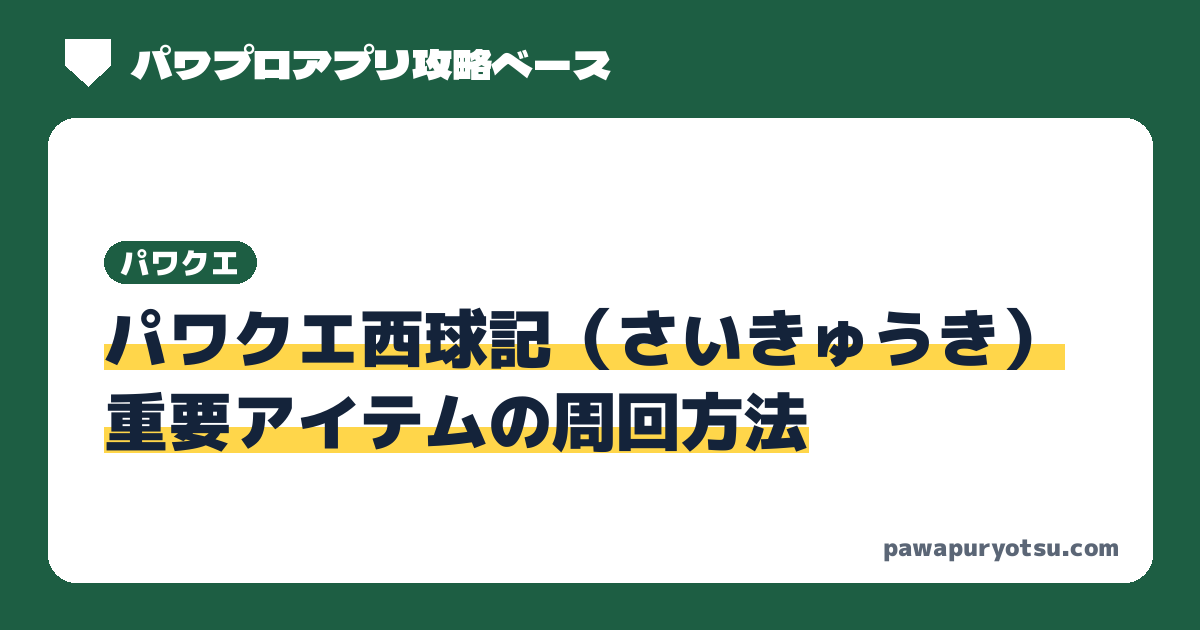
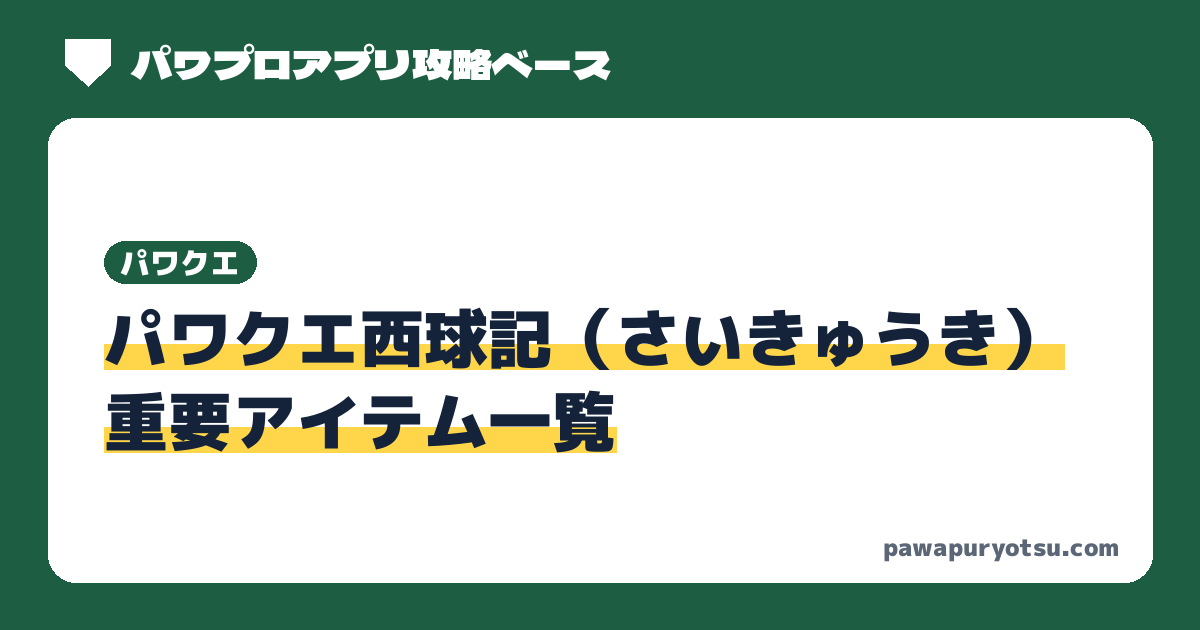
重要アイテム周回方法を「重要アイテム一覧」に名前変更（URLは drop/ のまま）
Claude-Session: https://claude.ai/code/session_019YJeT1QLw94f9KNRLB6odh

Changed region(s): [[0.4008, 0.6032, 0.6783, 0.7238]]

diff --git a/docs/pawaque/saikyuki/drop/index.html b/docs/pawaque/saikyuki/drop/index.html
@@ -4,13 +4,13 @@
 <meta charset="utf-8">
 <meta name="viewport" content="width=device-width,initial-scale=1,viewport-fit=cover">
 <meta name="color-scheme" content="light">
-<title>パワクエ西球記（さいきゅうき）重要アイテムの周回方法｜パワプロアプリ攻略ベース</title>
-<meta name="description" content="パワプロアプリのパワクエ「西球記（さいきゅうき）」で、重要アイテムを集めるための周回方法をまとめます。">
+<title>パワクエ西球記（さいきゅうき）重要アイテム一覧｜パワプロアプリ攻略ベース</title>
+<meta name="description" content="パワプロアプリのパワクエ「西球記（さいきゅうき）」で重要となるアイテムの一覧です。">
 <link rel="canonical" href="https://pawapuryotsu.com/pawaque/saikyuki/drop/">
 <meta property="og:type" content="website">
 <meta property="og:site_name" content="パワプロアプリ攻略ベース">
-<meta property="og:title" content="パワクエ西球記（さいきゅうき）重要アイテムの周回方法｜パワプロアプリ攻略ベース">
-<meta property="og:description" content="パワプロアプリのパワクエ「西球記（さいきゅうき）」で、重要アイテムを集めるための周回方法をまとめます。">
+<meta property="og:title" content="パワクエ西球記（さいきゅうき）重要アイテム一覧｜パワプロアプリ攻略ベース">
+<meta property="og:description" content="パワプロアプリのパワクエ「西球記（さいきゅうき）」で重要となるアイテムの一覧です。">
 <meta property="og:url" content="https://pawapuryotsu.com/pawaque/saikyuki/drop/">
 <meta property="og:image" content="https://pawapuryotsu.com/img/og/pawaque_saikyuki_drop.png">
 <meta property="og:image:width" content="1200">
@@ -29,7 +29,7 @@
 <script async src="https://pagead2.googlesyndication.com/pagead/js/adsbygoogle.js?client=ca-pub-8546020269968696" crossorigin="anonymous"></script>
 <script async src="https://www.googletagmanager.com/gtag/js?id=G-F98XGNW3LS"></script>
 <script>window.dataLayer=window.dataLayer||[];function gtag(){dataLayer.push(arguments)}gtag('js',new Date());gtag('config','G-F98XGNW3LS');</script><meta name="google-site-verification" content="ZgxID967oum-2Mm1F5BCX9gvQE_vNl2ZDbXXWfyYP10" />
-<script type="application/ld+json">{"@context": "https://schema.org", "@type": "BreadcrumbList", "itemListElement": [{"@type": "ListItem", "position": 1, "name": "トップ", "item": "https://pawapuryotsu.com/"}, {"@type": "ListItem", "position": 2, "name": "パワクエ", "item": "https://pawapuryotsu.com/pawaque/"}, {"@type": "ListItem", "position": 3, "name": "西球記", "item": "https://pawapuryotsu.com/pawaque/saikyuki/"}, {"@type": "ListItem", "position": 4, "name": "重要アイテム周回方法", "item": "https://pawapuryotsu.com/pawaque/saikyuki/drop/"}]}</script>
+<script type="application/ld+json">{"@context": "https://schema.org", "@type": "BreadcrumbList", "itemListElement": [{"@type": "ListItem", "position": 1, "name": "トップ", "item": "https://pawapuryotsu.com/"}, {"@type": "ListItem", "position": 2, "name": "パワクエ", "item": "https://pawapuryotsu.com/pawaque/"}, {"@type": "ListItem", "position": 3, "name": "西球記", "item": "https://pawapuryotsu.com/pawaque/saikyuki/"}, {"@type": "ListItem", "position": 4, "name": "重要アイテム一覧", "item": "https://pawapuryotsu.com/pawaque/saikyuki/drop/"}]}</script>
 </head>
 <body data-root="../../../">
 <svg width="0" height="0" style="position:absolute" aria-hidden="true">
@@ -56,7 +56,7 @@
 </div></header>
 
 <main><div class="wrap" id="page">
-<nav class="crumbs" aria-label="パンくずリスト"><ol><li><a href="../../../">トップ</a></li><li><a href="../../../pawaque/">パワクエ</a></li><li><a href="../../../pawaque/saikyuki/">西球記</a></li><li aria-current="page">重要アイテム周回方法</li></ol></nav>
+<nav class="crumbs" aria-label="パンくずリスト"><ol><li><a href="../../../">トップ</a></li><li><a href="../../../pawaque/">パワクエ</a></li><li><a href="../../../pawaque/saikyuki/">西球記</a></li><li aria-current="page">重要アイテム一覧</li></ol></nav>
 <!-- 2026-11-17 管理人：袋ノ書・交渉の指輪の2つで公開。原稿が来たらアイテムを追加（随時更新）。 -->
 <div class="dr-update"><p>※随時更新していきます</p>
 <p class="dr-log-h">11/19 追記した内容</p>
@@ -68,7 +68,7 @@
   <li>幸運の金丹：ドロップ場所に⑲道中3を追加</li>
   <li>金ノ書：アイテムを追加</li>
 </ul></div>
-<section class="phead"><p class="eyebrow">パワクエ 西球記</p><h1><span class="mk"><i>重要アイテム周回方法</i></span></h1><p>パワクエ<span class="cp-nw">「西球記（さいきゅうき）」</span>で、重要アイテムを集める周回方法を<span class="cp-nw">まとめました。</span></p></section>
+<section class="phead"><p class="eyebrow">パワクエ 西球記</p><h1><span class="mk"><i>重要アイテム一覧</i></span></h1><p>パワクエ<span class="cp-nw">「西球記（さいきゅうき）」</span>で重要となるアイテムの<span class="cp-nw">一覧です。</span></p></section>
 <div class="prose">
   <h2 id="skill">アイテムに付くスキルについて</h2>
   <p><span class="em-blue">アイテムに付くスキルは、高難度のクエストの方がレアなスキル・追加スキルが付く確率が高く、アイテムのランクも高くなります。</span></p>
@@ -164,7 +164,7 @@
   <div class="sk-grid">
     <a class="sk-c" href="../../../pawaque/saikyuki/feature/"><span class="sk-th sk-img"><img src="../../../img/pawaque/saikyuki_logo.png" alt="西球記のロゴ" width="235" height="130"></span><span class="sk-l">西球記の<span class="cp-nw">固有ギミック</span></span><span class="sk-s">仙術・神前試合マス・<wbr>祈願エンディングマス</span></a>
     <a class="sk-c" href="../../../pawaque/saikyuki/quest/"><span class="sk-th sk-img"><img src="../../../img/pawaque/saikyuki_link_quest.jpg" alt="クエスト一覧の画面" width="374" height="148"></span><span class="sk-l">クエスト一覧</span><span class="sk-s"><span class="cp-nw">①〜⑳</span>・<span class="cp-nw">むずクエ</span>・<span class="cp-nw">むちゃクエ</span>の<wbr>ドロップ・管理人メモ</span></a>
-    <span class="sk-c sk-cur" aria-current="page"><span class="sk-th sk-img"><img src="../../../img/pawaque/saikyuki_link_drop.jpg" alt="交渉の指輪" width="311" height="121"></span><span class="sk-l">重要アイテム<span class="cp-nw">周回方法</span></span><span class="sk-s"></span><span class="sk-now">表示中のページ</span></span>
+    <span class="sk-c sk-cur" aria-current="page"><span class="sk-th sk-img"><img src="../../../img/pawaque/saikyuki_link_drop.jpg" alt="交渉の指輪" width="311" height="121"></span><span class="sk-l">重要アイテム一覧</span><span class="sk-s"></span><span class="sk-now">表示中のページ</span></span>
     <a class="sk-c" href="../../../pawaque/saikyuki/muzu/"><span class="sk-th sk-img"><img src="../../../img/pawaque/saikyuki_link_muzu.jpg" alt="むずクエ エリア3のマップ" width="360" height="150"></span><span class="sk-l">むずクエ<span class="cp-nw">攻略＆周回</span></span><span class="sk-s">エリアごとの<wbr><span class="cp-nw">ルートと仙術</span></span></a>
     <a class="sk-c" href="../../../pawaque/saikyuki/mucha/"><span class="sk-th sk-img"><img src="../../../img/pawaque/saikyuki_link_mucha.jpg" alt="むちゃクエ エリア5のマップ" width="360" height="150"></span><span class="sk-l">むちゃクエ<span class="cp-nw">攻略＆周回</span></span><span class="sk-s">エリアごとの<wbr><span class="cp-nw">ルートと仙術</span></span></a>
     <a class="sk-c" href="../../../pawaque/saikyuki/shinzen/"><span class="sk-th sk-img"><img src="../../../img/pawaque/saikyuki_link_shinzen.jpg" alt="神前試合の画面" width="660" height="334"></span><span class="sk-l">神前試合<span class="cp-nw">まとめ</span></span><span class="sk-s">38校の進化対象・<wbr>スカウト候補</span></a>

diff --git a/src/pages/pawaque-saikyuki-drop.html b/src/pages/pawaque-saikyuki-drop.html
@@ -1,11 +1,11 @@
 <!--
-title: パワクエ西球記（さいきゅうき）重要アイテムの周回方法｜パワプロアプリ攻略ベース
-description: パワプロアプリのパワクエ「西球記（さいきゅうき）」で、重要アイテムを集めるための周回方法をまとめます。
+title: パワクエ西球記（さいきゅうき）重要アイテム一覧｜パワプロアプリ攻略ベース
+description: パワプロアプリのパワクエ「西球記（さいきゅうき）」で重要となるアイテムの一覧です。
 path: pawaque/saikyuki/drop/
 nav: pawaque
-crumb: 重要アイテム周回方法
-card_title: 西球記の重要アイテム周回方法
-card: 西球記で重要アイテムを集める周回方法を<span class="cp-nw">まとめました。</span>
+crumb: 重要アイテム一覧
+card_title: 西球記の重要アイテム一覧
+card: 西球記で重要となるアイテムの<span class="cp-nw">一覧です。</span>
 pq_order: 8
 -->
 <!-- 2026-11-17 管理人：袋ノ書・交渉の指輪の2つで公開。原稿が来たらアイテムを追加（随時更新）。 -->
@@ -19,7 +19,7 @@ pq_order: 8
   <li>幸運の金丹：ドロップ場所に⑲道中3を追加</li>
   <li>金ノ書：アイテムを追加</li>
 </ul></div>
-<section class="phead"><p class="eyebrow">パワクエ 西球記</p><h1><span class="mk"><i>重要アイテム周回方法</i></span></h1><p>パワクエ<span class="cp-nw">「西球記（さいきゅうき）」</span>で、重要アイテムを集める周回方法を<span class="cp-nw">まとめました。</span></p></section>
+<section class="phead"><p class="eyebrow">パワクエ 西球記</p><h1><span class="mk"><i>重要アイテム一覧</i></span></h1><p>パワクエ<span class="cp-nw">「西球記（さいきゅうき）」</span>で重要となるアイテムの<span class="cp-nw">一覧です。</span></p></section>
 <div class="prose">
   <h2 id="skill">アイテムに付くスキルについて</h2>
   <p><span class="em-blue">アイテムに付くスキルは、高難度のクエストの方がレアなスキル・追加スキルが付く確率が高く、アイテムのランクも高くなります。</span></p>
@@ -115,7 +115,7 @@ pq_order: 8
   <div class="sk-grid">
     <a class="sk-c" href="{{root}}pawaque/saikyuki/feature/"><span class="sk-th sk-img"><img src="{{root}}img/pawaque/saikyuki_logo.png" alt="西球記のロゴ" width="235" height="130"></span><span class="sk-l">西球記の<span class="cp-nw">固有ギミック</span></span><span class="sk-s">仙術・神前試合マス・<wbr>祈願エンディングマス</span></a>
     <a class="sk-c" href="{{root}}pawaque/saikyuki/quest/"><span class="sk-th sk-img"><img src="{{root}}img/pawaque/saikyuki_link_quest.jpg" alt="クエスト一覧の画面" width="374" height="148"></span><span class="sk-l">クエスト一覧</span><span class="sk-s"><span class="cp-nw">①〜⑳</span>・<span class="cp-nw">むずクエ</span>・<span class="cp-nw">むちゃクエ</span>の<wbr>ドロップ・管理人メモ</span></a>
-    <span class="sk-c sk-cur" aria-current="page"><span class="sk-th sk-img"><img src="{{root}}img/pawaque/saikyuki_link_drop.jpg" alt="交渉の指輪" width="311" height="121"></span><span class="sk-l">重要アイテム<span class="cp-nw">周回方法</span></span><span class="sk-s"></span><span class="sk-now">表示中のページ</span></span>
+    <span class="sk-c sk-cur" aria-current="page"><span class="sk-th sk-img"><img src="{{root}}img/pawaque/saikyuki_link_drop.jpg" alt="交渉の指輪" width="311" height="121"></span><span class="sk-l">重要アイテム一覧</span><span class="sk-s"></span><span class="sk-now">表示中のページ</span></span>
     <a class="sk-c" href="{{root}}pawaque/saikyuki/muzu/"><span class="sk-th sk-img"><img src="{{root}}img/pawaque/saikyuki_link_muzu.jpg" alt="むずクエ エリア3のマップ" width="360" height="150"></span><span class="sk-l">むずクエ<span class="cp-nw">攻略＆周回</span></span><span class="sk-s">エリアごとの<wbr><span class="cp-nw">ルートと仙術</span></span></a>
     <a class="sk-c" href="{{root}}pawaque/saikyuki/mucha/"><span class="sk-th sk-img"><img src="{{root}}img/pawaque/saikyuki_link_mucha.jpg" alt="むちゃクエ エリア5のマップ" width="360" height="150"></span><span class="sk-l">むちゃクエ<span class="cp-nw">攻略＆周回</span></span><span class="sk-s">エリアごとの<wbr><span class="cp-nw">ルートと仙術</span></span></a>
     <a class="sk-c" href="{{root}}pawaque/saikyuki/shinzen/"><span class="sk-th sk-img"><img src="{{root}}img/pawaque/saikyuki_link_shinzen.jpg" alt="神前試合の画面" width="660" height="334"></span><span class="sk-l">神前試合<span class="cp-nw">まとめ</span></span><span class="sk-s">38校の進化対象・<wbr>スカウト候補</span></a>

diff --git a/docs/pawaque/saikyuki/muzu/index.html b/docs/pawaque/saikyuki/muzu/index.html
@@ -106,7 +106,7 @@
   <div class="sk-grid">
     <a class="sk-c" href="../../../pawaque/saikyuki/feature/"><span class="sk-th sk-img"><img src="../../../img/pawaque/saikyuki_logo.png" alt="西球記のロゴ" width="235" height="130"></span><span class="sk-l">西球記の<span class="cp-nw">固有ギミック</span></span><span class="sk-s">仙術・神前試合マス・<wbr>祈願エンディングマス</span></a>
     <a class="sk-c" href="../../../pawaque/saikyuki/quest/"><span class="sk-th sk-img"><img src="../../../img/pawaque/saikyuki_link_quest.jpg" alt="クエスト一覧の画面" width="374" height="148"></span><span class="sk-l">クエスト一覧</span><span class="sk-s"><span class="cp-nw">①〜⑳</span>・<span class="cp-nw">むずクエ</span>・<span class="cp-nw">むちゃクエ</span>の<wbr>ドロップ・管理人メモ</span></a>
-    <a class="sk-c" href="../../../pawaque/saikyuki/drop/"><span class="sk-th sk-img"><img src="../../../img/pawaque/saikyuki_link_drop.jpg" alt="交渉の指輪" width="311" height="121"></span><span class="sk-l">重要アイテム<span class="cp-nw">周回方法</span></span><span class="sk-s"></span></a>
+    <a class="sk-c" href="../../../pawaque/saikyuki/drop/"><span class="sk-th sk-img"><img src="../../../img/pawaque/saikyuki_link_drop.jpg" alt="交渉の指輪" width="311" height="121"></span><span class="sk-l">重要アイテム一覧</span><span class="sk-s"></span></a>
     <span class="sk-c sk-cur" aria-current="page"><span class="sk-th sk-img"><img src="../../../img/pawaque/saikyuki_link_muzu.jpg" alt="むずクエ エリア3のマップ" width="360" height="150"></span><span class="sk-l">むずクエ<span class="cp-nw">攻略＆周回</span></span><span class="sk-s">エリアごとの<wbr><span class="cp-nw">ルートと仙術</span></span><span class="sk-now">表示中のページ</span></span>
     <a class="sk-c" href="../../../pawaque/saikyuki/mucha/"><span class="sk-th sk-img"><img src="../../../img/pawaque/saikyuki_link_mucha.jpg" alt="むちゃクエ エリア5のマップ" width="360" height="150"></span><span class="sk-l">むちゃクエ<span class="cp-nw">攻略＆周回</span></span><span class="sk-s">エリアごとの<wbr><span class="cp-nw">ルートと仙術</span></span></a>
     <a class="sk-c" href="../../../pawaque/saikyuki/shinzen/"><span class="sk-th sk-img"><img src="../../../img/pawaque/saikyuki_link_shinzen.jpg" alt="神前試合の画面" width="660" height="334"></span><span class="sk-l">神前試合<span class="cp-nw">まとめ</span></span><span class="sk-s">38校の進化対象・<wbr>スカウト候補</span></a>

diff --git a/docs/pawaque/saikyuki/mucha/index.html b/docs/pawaque/saikyuki/mucha/index.html
@@ -112,7 +112,7 @@
   <div class="sk-grid">
     <a class="sk-c" href="../../../pawaque/saikyuki/feature/"><span class="sk-th sk-img"><img src="../../../img/pawaque/saikyuki_logo.png" alt="西球記のロゴ" width="235" height="130"></span><span class="sk-l">西球記の<span class="cp-nw">固有ギミック</span></span><span class="sk-s">仙術・神前試合マス・<wbr>祈願エンディングマス</span></a>
     <a class="sk-c" href="../../../pawaque/saikyuki/quest/"><span class="sk-th sk-img"><img src="../../../img/pawaque/saikyuki_link_quest.jpg" alt="クエスト一覧の画面" width="374" height="148"></span><span class="sk-l">クエスト一覧</span><span class="sk-s"><span class="cp-nw">①〜⑳</span>・<span class="cp-nw">むずクエ</span>・<span class="cp-nw">むちゃクエ</span>の<wbr>ドロップ・管理人メモ</span></a>
-    <a class="sk-c" href="../../../pawaque/saikyuki/drop/"><span class="sk-th sk-img"><img src="../../../img/pawaque/saikyuki_link_drop.jpg" alt="交渉の指輪" width="311" height="121"></span><span class="sk-l">重要アイテム<span class="cp-nw">周回方法</span></span><span class="sk-s"></span></a>
+    <a class="sk-c" href="../../../pawaque/saikyuki/drop/"><span class="sk-th sk-img"><img src="../../../img/pawaque/saikyuki_link_drop.jpg" alt="交渉の指輪" width="311" height="121"></span><span class="sk-l">重要アイテム一覧</span><span class="sk-s"></span></a>
     <a class="sk-c" href="../../../pawaque/saikyuki/muzu/"><span class="sk-th sk-img"><img src="../../../img/pawaque/saikyuki_link_muzu.jpg" alt="むずクエ エリア3のマップ" width="360" height="150"></span><span class="sk-l">むずクエ<span class="cp-nw">攻略＆周回</span></span><span class="sk-s">エリアごとの<wbr><span class="cp-nw">ルートと仙術</span></span></a>
     <span class="sk-c sk-cur" aria-current="page"><span class="sk-th sk-img"><img src="../../../img/pawaque/saikyuki_link_mucha.jpg" alt="むちゃクエ エリア5のマップ" width="360" height="150"></span><span class="sk-l">むちゃクエ<span class="cp-nw">攻略＆周回</span></span><span class="sk-s">エリアごとの<wbr><span class="cp-nw">ルートと仙術</span></span><span class="sk-now">表示中のページ</span></span>
     <a class="sk-c" href="../../../pawaque/saikyuki/shinzen/"><span class="sk-th sk-img"><img src="../../../img/pawaque/saikyuki_link_shinzen.jpg" alt="神前試合の画面" width="660" height="334"></span><span class="sk-l">神前試合<span class="cp-nw">まとめ</span></span><span class="sk-s">38校の進化対象・<wbr>スカウト候補</span></a>

diff --git a/docs/pawaque/saikyuki/quest/index.html b/docs/pawaque/saikyuki/quest/index.html
@@ -164,7 +164,7 @@
   <div class="sk-grid">
     <a class="sk-c" href="../../../pawaque/saikyuki/feature/"><span class="sk-th sk-img"><img src="../../../img/pawaque/saikyuki_logo.png" alt="西球記のロゴ" width="235" height="130"></span><span class="sk-l">西球記の<span class="cp-nw">固有ギミック</span></span><span class="sk-s">仙術・神前試合マス・<wbr>祈願エンディングマス</span></a>
     <span class="sk-c sk-cur" aria-current="page"><span class="sk-th sk-img"><img src="../../../img/pawaque/saikyuki_link_quest.jpg" alt="クエスト一覧の画面" width="374" height="148"></span><span class="sk-l">クエスト一覧</span><span class="sk-s"><span class="cp-nw">①〜⑳</span>・<span class="cp-nw">むずクエ</span>・<span class="cp-nw">むちゃクエ</span>の<wbr>ドロップ・管理人メモ</span><span class="sk-now">表示中のページ</span></span>
-    <a class="sk-c" href="../../../pawaque/saikyuki/drop/"><span class="sk-th sk-img"><img src="../../../img/pawaque/saikyuki_link_drop.jpg" alt="交渉の指輪" width="311" height="121"></span><span class="sk-l">重要アイテム<span class="cp-nw">周回方法</span></span><span class="sk-s"></span></a>
+    <a class="sk-c" href="../../../pawaque/saikyuki/drop/"><span class="sk-th sk-img"><img src="../../../img/pawaque/saikyuki_link_drop.jpg" alt="交渉の指輪" width="311" height="121"></span><span class="sk-l">重要アイテム一覧</span><span class="sk-s"></span></a>
     <a class="sk-c" href="../../../pawaque/saikyuki/muzu/"><span class="sk-th sk-img"><img src="../../../img/pawaque/saikyuki_link_muzu.jpg" alt="むずクエ エリア3のマップ" width="360" height="150"></span><span class="sk-l">むずクエ<span class="cp-nw">攻略＆周回</span></span><span class="sk-s">エリアごとの<wbr><span class="cp-nw">ルートと仙術</span></span></a>
     <a class="sk-c" href="../../../pawaque/saikyuki/mucha/"><span class="sk-th sk-img"><img src="../../../img/pawaque/saikyuki_link_mucha.jpg" alt="むちゃクエ エリア5のマップ" width="360" height="150"></span><span class="sk-l">むちゃクエ<span class="cp-nw">攻略＆周回</span></span><span class="sk-s">エリアごとの<wbr><span class="cp-nw">ルートと仙術</span></span></a>
     <a class="sk-c" href="../../../pawaque/saikyuki/shinzen/"><span class="sk-th sk-img"><img src="../../../img/pawaque/saikyuki_link_shinzen.jpg" alt="神前試合の画面" width="660" height="334"></span><span class="sk-l">神前試合<span class="cp-nw">まとめ</span></span><span class="sk-s">38校の進化対象・<wbr>スカウト候補</span></a>

diff --git a/src/pages/pawaque-saikyuki-quest.html b/src/pages/pawaque-saikyuki-quest.html
@@ -115,7 +115,7 @@ pq_order: 7
   <div class="sk-grid">
     <a class="sk-c" href="{{root}}pawaque/saikyuki/feature/"><span class="sk-th sk-img"><img src="{{root}}img/pawaque/saikyuki_logo.png" alt="西球記のロゴ" width="235" height="130"></span><span class="sk-l">西球記の<span class="cp-nw">固有ギミック</span></span><span class="sk-s">仙術・神前試合マス・<wbr>祈願エンディングマス</span></a>
     <span class="sk-c sk-cur" aria-current="page"><span class="sk-th sk-img"><img src="{{root}}img/pawaque/saikyuki_link_quest.jpg" alt="クエスト一覧の画面" width="374" height="148"></span><span class="sk-l">クエスト一覧</span><span class="sk-s"><span class="cp-nw">①〜⑳</span>・<span class="cp-nw">むずクエ</span>・<span class="cp-nw">むちゃクエ</span>の<wbr>ドロップ・管理人メモ</span><span class="sk-now">表示中のページ</span></span>
-    <a class="sk-c" href="{{root}}pawaque/saikyuki/drop/"><span class="sk-th sk-img"><img src="{{root}}img/pawaque/saikyuki_link_drop.jpg" alt="交渉の指輪" width="311" height="121"></span><span class="sk-l">重要アイテム<span class="cp-nw">周回方法</span></span><span class="sk-s"></span></a>
+    <a class="sk-c" href="{{root}}pawaque/saikyuki/drop/"><span class="sk-th sk-img"><img src="{{root}}img/pawaque/saikyuki_link_drop.jpg" alt="交渉の指輪" width="311" height="121"></span><span class="sk-l">重要アイテム一覧</span><span class="sk-s"></span></a>
     <a class="sk-c" href="{{root}}pawaque/saikyuki/muzu/"><span class="sk-th sk-img"><img src="{{root}}img/pawaque/saikyuki_link_muzu.jpg" alt="むずクエ エリア3のマップ" width="360" height="150"></span><span class="sk-l">むずクエ<span class="cp-nw">攻略＆周回</span></span><span class="sk-s">エリアごとの<wbr><span class="cp-nw">ルートと仙術</span></span></a>
     <a class="sk-c" href="{{root}}pawaque/saikyuki/mucha/"><span class="sk-th sk-img"><img src="{{root}}img/pawaque/saikyuki_link_mucha.jpg" alt="むちゃクエ エリア5のマップ" width="360" height="150"></span><span class="sk-l">むちゃクエ<span class="cp-nw">攻略＆周回</span></span><span class="sk-s">エリアごとの<wbr><span class="cp-nw">ルートと仙術</span></span></a>
     <a class="sk-c" href="{{root}}pawaque/saikyuki/shinzen/"><span class="sk-th sk-img"><img src="{{root}}img/pawaque/saikyuki_link_shinzen.jpg" alt="神前試合の画面" width="660" height="334"></span><span class="sk-l">神前試合<span class="cp-nw">まとめ</span></span><span class="sk-s">38校の進化対象・<wbr>スカウト候補</span></a>

diff --git a/docs/pawaque/saikyuki/feature/index.html b/docs/pawaque/saikyuki/feature/index.html
@@ -154,7 +154,7 @@
   <div class="sk-grid">
     <span class="sk-c sk-cur" aria-current="page"><span class="sk-th sk-img"><img src="../../../img/pawaque/saikyuki_logo.png" alt="西球記のロゴ" width="235" height="130"></span><span class="sk-l">西球記の<span class="cp-nw">固有ギミック</span></span><span class="sk-s">仙術・神前試合マス・<wbr>祈願エンディングマス</span><span class="sk-now">表示中のページ</span></span>
     <a class="sk-c" href="../../../pawaque/saikyuki/quest/"><span class="sk-th sk-img"><img src="../../../img/pawaque/saikyuki_link_quest.jpg" alt="クエスト一覧の画面" width="374" height="148"></span><span class="sk-l">クエスト一覧</span><span class="sk-s"><span class="cp-nw">①〜⑳</span>・<span class="cp-nw">むずクエ</span>・<span class="cp-nw">むちゃクエ</span>の<wbr>ドロップ・管理人メモ</span></a>
-    <a class="sk-c" href="../../../pawaque/saikyuki/drop/"><span class="sk-th sk-img"><img src="../../../img/pawaque/saikyuki_link_drop.jpg" alt="交渉の指輪" width="311" height="121"></span><span class="sk-l">重要アイテム<span class="cp-nw">周回方法</span></span><span class="sk-s"></span></a>
+    <a class="sk-c" href="../../../pawaque/saikyuki/drop/"><span class="sk-th sk-img"><img src="../../../img/pawaque/saikyuki_link_drop.jpg" alt="交渉の指輪" width="311" height="121"></span><span class="sk-l">重要アイテム一覧</span><span class="sk-s"></span></a>
     <a class="sk-c" href="../../../pawaque/saikyuki/muzu/"><span class="sk-th sk-img"><img src="../../../img/pawaque/saikyuki_link_muzu.jpg" alt="むずクエ エリア3のマップ" width="360" height="150"></span><span class="sk-l">むずクエ<span class="cp-nw">攻略＆周回</span></span><span class="sk-s">エリアごとの<wbr><span class="cp-nw">ルートと仙術</span></span></a>
     <a class="sk-c" href="../../../pawaque/saikyuki/mucha/"><span class="sk-th sk-img"><img src="../../../img/pawaque/saikyuki_link_mucha.jpg" alt="むちゃクエ エリア5のマップ" width="360" height="150"></span><span class="sk-l">むちゃクエ<span class="cp-nw">攻略＆周回</span></span><span class="sk-s">エリアごとの<wbr><span class="cp-nw">ルートと仙術</span></span></a>
     <a class="sk-c" href="../../../pawaque/saikyuki/shinzen/"><span class="sk-th sk-img"><img src="../../../img/pawaque/saikyuki_link_shinzen.jpg" alt="神前試合の画面" width="660" height="334"></span><span class="sk-l">神前試合<span class="cp-nw">まとめ</span></span><span class="sk-s">38校の進化対象・<wbr>スカウト候補</span></a>

diff --git a/docs/pawaque/saikyuki/shinzen/index.html b/docs/pawaque/saikyuki/shinzen/index.html
@@ -277,7 +277,7 @@
   <div class="sk-grid">
     <a class="sk-c" href="../../../pawaque/saikyuki/feature/"><span class="sk-th sk-img"><img src="../../../img/pawaque/saikyuki_logo.png" alt="西球記のロゴ" width="235" height="130"></span><span class="sk-l">西球記の<span class="cp-nw">固有ギミック</span></span><span class="sk-s">仙術・神前試合マス・<wbr>祈願エンディングマス</span></a>
     <a class="sk-c" href="../../../pawaque/saikyuki/quest/"><span class="sk-th sk-img"><img src="../../../img/pawaque/saikyuki_link_quest.jpg" alt="クエスト一覧の画面" width="374" height="148"></span><span class="sk-l">クエスト一覧</span><span class="sk-s"><span class="cp-nw">①〜⑳</span>・<span class="cp-nw">むずクエ</span>・<span class="cp-nw">むちゃクエ</span>の<wbr>ドロップ・管理人メモ</span></a>
-    <a class="sk-c" href="../../../pawaque/saikyuki/drop/"><span class="sk-th sk-img"><img src="../../../img/pawaque/saikyuki_link_drop.jpg" alt="交渉の指輪" width="311" height="121"></span><span class="sk-l">重要アイテム<span class="cp-nw">周回方法</span></span><span class="sk-s"></span></a>
+    <a class="sk-c" href="../../../pawaque/saikyuki/drop/"><span class="sk-th sk-img"><img src="../../../img/pawaque/saikyuki_link_drop.jpg" alt="交渉の指輪" width="311" height="121"></span><span class="sk-l">重要アイテム一覧</span><span class="sk-s"></span></a>
     <a class="sk-c" href="../../../pawaque/saikyuki/muzu/"><span class="sk-th sk-img"><img src="../../../img/pawaque/saikyuki_link_muzu.jpg" alt="むずクエ エリア3のマップ" width="360" height="150"></span><span class="sk-l">むずクエ<span class="cp-nw">攻略＆周回</span></span><span class="sk-s">エリアごとの<wbr><span class="cp-nw">ルートと仙術</span></span></a>
     <a class="sk-c" href="../../../pawaque/saikyuki/mucha/"><span class="sk-th sk-img"><img src="../../../img/pawaque/saikyuki_link_mucha.jpg" alt="むちゃクエ エリア5のマップ" width="360" height="150"></span><span class="sk-l">むちゃクエ<span class="cp-nw">攻略＆周回</span></span><span class="sk-s">エリアごとの<wbr><span class="cp-nw">ルートと仙術</span></span></a>
     <span class="sk-c sk-cur" aria-current="page"><span class="sk-th sk-img"><img src="../../../img/pawaque/saikyuki_link_shinzen.jpg" alt="神前試合の画面" width="660" height="334"></span><span class="sk-l">神前試合<span class="cp-nw">まとめ</span></span><span class="sk-s">38校の進化対象・<wbr>スカウト候補</span><span class="sk-now">表示中のページ</span></span>

diff --git a/src/pages/pawaque-saikyuki-muzu.html b/src/pages/pawaque-saikyuki-muzu.html
@@ -57,7 +57,7 @@ pq_order: 8
   <div class="sk-grid">
     <a class="sk-c" href="{{root}}pawaque/saikyuki/feature/"><span class="sk-th sk-img"><img src="{{root}}img/pawaque/saikyuki_logo.png" alt="西球記のロゴ" width="235" height="130"></span><span class="sk-l">西球記の<span class="cp-nw">固有ギミック</span></span><span class="sk-s">仙術・神前試合マス・<wbr>祈願エンディングマス</span></a>
     <a class="sk-c" href="{{root}}pawaque/saikyuki/quest/"><span class="sk-th sk-img"><img src="{{root}}img/pawaque/saikyuki_link_quest.jpg" alt="クエスト一覧の画面" width="374" height="148"></span><span class="sk-l">クエスト一覧</span><span class="sk-s"><span class="cp-nw">①〜⑳</span>・<span class="cp-nw">むずクエ</span>・<span class="cp-nw">むちゃクエ</span>の<wbr>ドロップ・管理人メモ</span></a>
-    <a class="sk-c" href="{{root}}pawaque/saikyuki/drop/"><span class="sk-th sk-img"><img src="{{root}}img/pawaque/saikyuki_link_drop.jpg" alt="交渉の指輪" width="311" height="121"></span><span class="sk-l">重要アイテム<span class="cp-nw">周回方法</span></span><span class="sk-s"></span></a>
+    <a class="sk-c" href="{{root}}pawaque/saikyuki/drop/"><span class="sk-th sk-img"><img src="{{root}}img/pawaque/saikyuki_link_drop.jpg" alt="交渉の指輪" width="311" height="121"></span><span class="sk-l">重要アイテム一覧</span><span class="sk-s"></span></a>
     <span class="sk-c sk-cur" aria-current="page"><span class="sk-th sk-img"><img src="{{root}}img/pawaque/saikyuki_link_muzu.jpg" alt="むずクエ エリア3のマップ" width="360" height="150"></span><span class="sk-l">むずクエ<span class="cp-nw">攻略＆周回</span></span><span class="sk-s">エリアごとの<wbr><span class="cp-nw">ルートと仙術</span></span><span class="sk-now">表示中のページ</span></span>
     <a class="sk-c" href="{{root}}pawaque/saikyuki/mucha/"><span class="sk-th sk-img"><img src="{{root}}img/pawaque/saikyuki_link_mucha.jpg" alt="むちゃクエ エリア5のマップ" width="360" height="150"></span><span class="sk-l">むちゃクエ<span class="cp-nw">攻略＆周回</span></span><span class="sk-s">エリアごとの<wbr><span class="cp-nw">ルートと仙術</span></span></a>
     <a class="sk-c" href="{{root}}pawaque/saikyuki/shinzen/"><span class="sk-th sk-img"><img src="{{root}}img/pawaque/saikyuki_link_shinzen.jpg" alt="神前試合の画面" width="660" height="334"></span><span class="sk-l">神前試合<span class="cp-nw">まとめ</span></span><span class="sk-s">38校の進化対象・<wbr>スカウト候補</span></a>

diff --git a/src/pages/pawaque-saikyuki-feature.html b/src/pages/pawaque-saikyuki-feature.html
@@ -105,7 +105,7 @@ pq_order: 6
   <div class="sk-grid">
     <span class="sk-c sk-cur" aria-current="page"><span class="sk-th sk-img"><img src="{{root}}img/pawaque/saikyuki_logo.png" alt="西球記のロゴ" width="235" height="130"></span><span class="sk-l">西球記の<span class="cp-nw">固有ギミック</span></span><span class="sk-s">仙術・神前試合マス・<wbr>祈願エンディングマス</span><span class="sk-now">表示中のページ</span></span>
     <a class="sk-c" href="{{root}}pawaque/saikyuki/quest/"><span class="sk-th sk-img"><img src="{{root}}img/pawaque/saikyuki_link_quest.jpg" alt="クエスト一覧の画面" width="374" height="148"></span><span class="sk-l">クエスト一覧</span><span class="sk-s"><span class="cp-nw">①〜⑳</span>・<span class="cp-nw">むずクエ</span>・<span class="cp-nw">むちゃクエ</span>の<wbr>ドロップ・管理人メモ</span></a>
-    <a class="sk-c" href="{{root}}pawaque/saikyuki/drop/"><span class="sk-th sk-img"><img src="{{root}}img/pawaque/saikyuki_link_drop.jpg" alt="交渉の指輪" width="311" height="121"></span><span class="sk-l">重要アイテム<span class="cp-nw">周回方法</span></span><span class="sk-s"></span></a>
+    <a class="sk-c" href="{{root}}pawaque/saikyuki/drop/"><span class="sk-th sk-img"><img src="{{root}}img/pawaque/saikyuki_link_drop.jpg" alt="交渉の指輪" width="311" height="121"></span><span class="sk-l">重要アイテム一覧</span><span class="sk-s"></span></a>
     <a class="sk-c" href="{{root}}pawaque/saikyuki/muzu/"><span class="sk-th sk-img"><img src="{{root}}img/pawaque/saikyuki_link_muzu.jpg" alt="むずクエ エリア3のマップ" width="360" height="150"></span><span class="sk-l">むずクエ<span class="cp-nw">攻略＆周回</span></span><span class="sk-s">エリアごとの<wbr><span class="cp-nw">ルートと仙術</span></span></a>
     <a class="sk-c" href="{{root}}pawaque/saikyuki/mucha/"><span class="sk-th sk-img"><img src="{{root}}img/pawaque/saikyuki_link_mucha.jpg" alt="むちゃクエ エリア5のマップ" width="360" height="150"></span><span class="sk-l">むちゃクエ<span class="cp-nw">攻略＆周回</span></span><span class="sk-s">エリアごとの<wbr><span class="cp-nw">ルートと仙術</span></span></a>
     <a class="sk-c" href="{{root}}pawaque/saikyuki/shinzen/"><span class="sk-th sk-img"><img src="{{root}}img/pawaque/saikyuki_link_shinzen.jpg" alt="神前試合の画面" width="660" height="334"></span><span class="sk-l">神前試合<span class="cp-nw">まとめ</span></span><span class="sk-s">38校の進化対象・<wbr>スカウト候補</span></a>

diff --git a/src/pages/pawaque-saikyuki-mucha.html b/src/pages/pawaque-saikyuki-mucha.html
@@ -63,7 +63,7 @@ pq_order: 8
   <div class="sk-grid">
     <a class="sk-c" href="{{root}}pawaque/saikyuki/feature/"><span class="sk-th sk-img"><img src="{{root}}img/pawaque/saikyuki_logo.png" alt="西球記のロゴ" width="235" height="130"></span><span class="sk-l">西球記の<span class="cp-nw">固有ギミック</span></span><span class="sk-s">仙術・神前試合マス・<wbr>祈願エンディングマス</span></a>
     <a class="sk-c" href="{{root}}pawaque/saikyuki/quest/"><span class="sk-th sk-img"><img src="{{root}}img/pawaque/saikyuki_link_quest.jpg" alt="クエスト一覧の画面" width="374" height="148"></span><span class="sk-l">クエスト一覧</span><span class="sk-s"><span class="cp-nw">①〜⑳</span>・<span class="cp-nw">むずクエ</span>・<span class="cp-nw">むちゃクエ</span>の<wbr>ドロップ・管理人メモ</span></a>
-    <a class="sk-c" href="{{root}}pawaque/saikyuki/drop/"><span class="sk-th sk-img"><img src="{{root}}img/pawaque/saikyuki_link_drop.jpg" alt="交渉の指輪" width="311" height="121"></span><span class="sk-l">重要アイテム<span class="cp-nw">周回方法</span></span><span class="sk-s"></span></a>
+    <a class="sk-c" href="{{root}}pawaque/saikyuki/drop/"><span class="sk-th sk-img"><img src="{{root}}img/pawaque/saikyuki_link_drop.jpg" alt="交渉の指輪" width="311" height="121"></span><span class="sk-l">重要アイテム一覧</span><span class="sk-s"></span></a>
     <a class="sk-c" href="{{root}}pawaque/saikyuki/muzu/"><span class="sk-th sk-img"><img src="{{root}}img/pawaque/saikyuki_link_muzu.jpg" alt="むずクエ エリア3のマップ" width="360" height="150"></span><span class="sk-l">むずクエ<span class="cp-nw">攻略＆周回</span></span><span class="sk-s">エリアごとの<wbr><span class="cp-nw">ルートと仙術</span></span></a>
     <span class="sk-c sk-cur" aria-current="page"><span class="sk-th sk-img"><img src="{{root}}img/pawaque/saikyuki_link_mucha.jpg" alt="むちゃクエ エリア5のマップ" width="360" height="150"></span><span class="sk-l">むちゃクエ<span class="cp-nw">攻略＆周回</span></span><span class="sk-s">エリアごとの<wbr><span class="cp-nw">ルートと仙術</span></span><span class="sk-now">表示中のページ</span></span>
     <a class="sk-c" href="{{root}}pawaque/saikyuki/shinzen/"><span class="sk-th sk-img"><img src="{{root}}img/pawaque/saikyuki_link_shinzen.jpg" alt="神前試合の画面" width="660" height="334"></span><span class="sk-l">神前試合<span class="cp-nw">まとめ</span></span><span class="sk-s">38校の進化対象・<wbr>スカウト候補</span></a>

diff --git a/src/pages/pawaque-saikyuki-shinzen.html b/src/pages/pawaque-saikyuki-shinzen.html
@@ -228,7 +228,7 @@ pq_order: 9
   <div class="sk-grid">
     <a class="sk-c" href="{{root}}pawaque/saikyuki/feature/"><span class="sk-th sk-img"><img src="{{root}}img/pawaque/saikyuki_logo.png" alt="西球記のロゴ" width="235" height="130"></span><span class="sk-l">西球記の<span class="cp-nw">固有ギミック</span></span><span class="sk-s">仙術・神前試合マス・<wbr>祈願エンディングマス</span></a>
     <a class="sk-c" href="{{root}}pawaque/saikyuki/quest/"><span class="sk-th sk-img"><img src="{{root}}img/pawaque/saikyuki_link_quest.jpg" alt="クエスト一覧の画面" width="374" height="148"></span><span class="sk-l">クエスト一覧</span><span class="sk-s"><span class="cp-nw">①〜⑳</span>・<span class="cp-nw">むずクエ</span>・<span class="cp-nw">むちゃクエ</span>の<wbr>ドロップ・管理人メモ</span></a>
-    <a class="sk-c" href="{{root}}pawaque/saikyuki/drop/"><span class="sk-th sk-img"><img src="{{root}}img/pawaque/saikyuki_link_drop.jpg" alt="交渉の指輪" width="311" height="121"></span><span class="sk-l">重要アイテム<span class="cp-nw">周回方法</span></span><span class="sk-s"></span></a>
+    <a class="sk-c" href="{{root}}pawaque/saikyuki/drop/"><span class="sk-th sk-img"><img src="{{root}}img/pawaque/saikyuki_link_drop.jpg" alt="交渉の指輪" width="311" height="121"></span><span class="sk-l">重要アイテム一覧</span><span class="sk-s"></span></a>
     <a class="sk-c" href="{{root}}pawaque/saikyuki/muzu/"><span class="sk-th sk-img"><img src="{{root}}img/pawaque/saikyuki_link_muzu.jpg" alt="むずクエ エリア3のマップ" width="360" height="150"></span><span class="sk-l">むずクエ<span class="cp-nw">攻略＆周回</span></span><span class="sk-s">エリアごとの<wbr><span class="cp-nw">ルートと仙術</span></span></a>
     <a class="sk-c" href="{{root}}pawaque/saikyuki/mucha/"><span class="sk-th sk-img"><img src="{{root}}img/pawaque/saikyuki_link_mucha.jpg" alt="むちゃクエ エリア5のマップ" width="360" height="150"></span><span class="sk-l">むちゃクエ<span class="cp-nw">攻略＆周回</span></span><span class="sk-s">エリアごとの<wbr><span class="cp-nw">ルートと仙術</span></span></a>
     <span class="sk-c sk-cur" aria-current="page"><span class="sk-th sk-img"><img src="{{root}}img/pawaque/saikyuki_link_shinzen.jpg" alt="神前試合の画面" width="660" height="334"></span><span class="sk-l">神前試合<span class="cp-nw">まとめ</span></span><span class="sk-s">38校の進化対象・<wbr>スカウト候補</span><span class="sk-now">表示中のページ</span></span>
